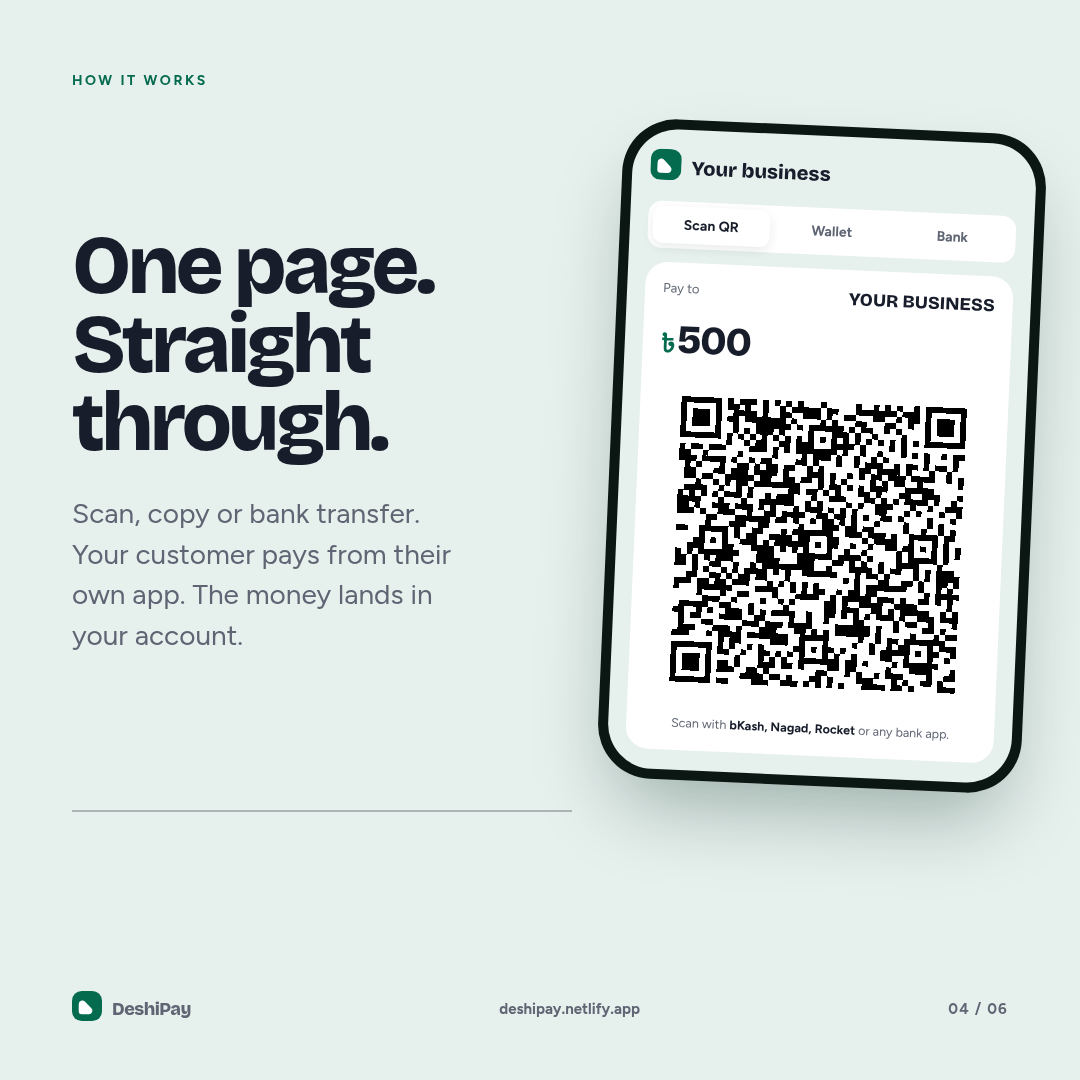
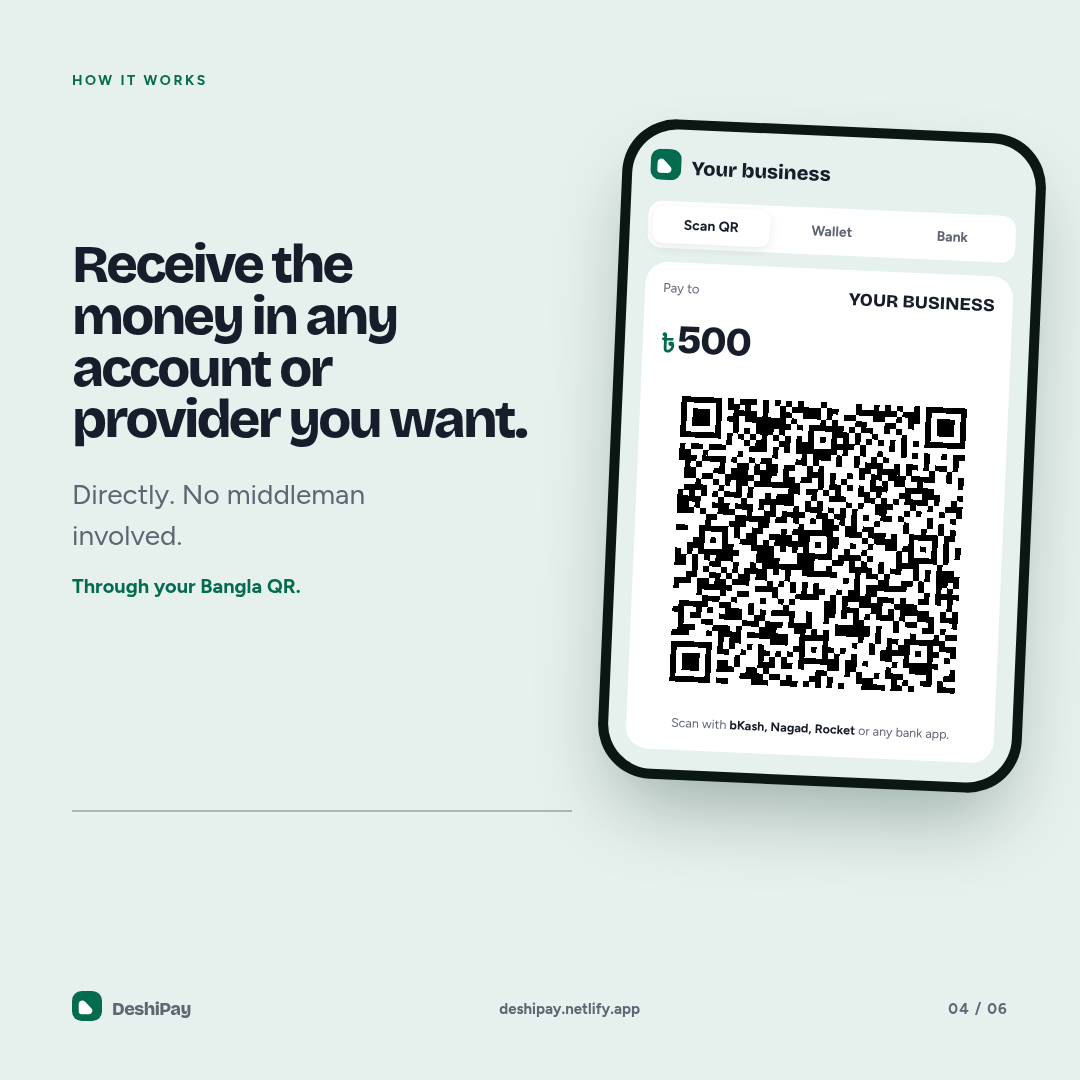
content(page4): receive directly in any account or provider
Replace the page 4 message with direct-receipt copy, add the 'Through your
Bangla QR' note, and update the caption/alt text.

Changed region(s): [[0.0611, 0.2139, 0.4889, 0.6111]]

diff --git a/promotionals/social/source/social.html b/promotionals/social/source/social.html
@@ -79,8 +79,9 @@
 
   .s3-ghost { position:absolute; z-index:1; left:-42px; bottom:-128px; color:rgba(230,240,237,.045); font:800 450px/1 "Hind Siliguri","Noto Sans Bengali",sans-serif; letter-spacing:-.08em; pointer-events:none; }
   /* 04 phone crop */
-  #s4 .headline { font-size:82px; margin-top:138px; max-width:410px; }
-  #s4 .body { margin-top:30px; max-width:390px; font-size:28px; }
+  #s4 .headline { font-size:54px; margin-top:150px; max-width:455px; }
+  #s4 .body { margin-top:28px; max-width:400px; font-size:28px; }
+  .s4-small { position:relative; z-index:4; margin:18px 0 0; color:var(--green); font-size:20px; font-weight:700; }
   #s4 .hairline { right:auto; width:500px; }
   .phone-wrap { position:absolute; z-index:5; right:46px; top:126px; width:470px; }
   .phone { width:424px; margin-left:auto; padding:10px; border-radius:54px; background:#0B1712; box-shadow:0 40px 80px -20px rgba(8,42,32,.35); transform:rotate(2.5deg); }
@@ -148,8 +149,9 @@
 
   <section class="slide mint" id="s4">
     <p class="kicker">How it works</p>
-    <h1 class="headline">One page.<br>Straight through.</h1>
-    <p class="body">Scan, copy or bank transfer. Your customer pays from their own app. The money lands in your account.</p>
+    <h1 class="headline">Receive the money in any account or provider you want.</h1>
+    <p class="body">Directly. No middleman involved.</p>
+    <p class="s4-small">Through your Bangla QR.</p>
     <div class="phone-wrap">
       <div class="phone"><div class="screen">
         <div class="mini-brand"><span data-mark></span>Your business</div>
